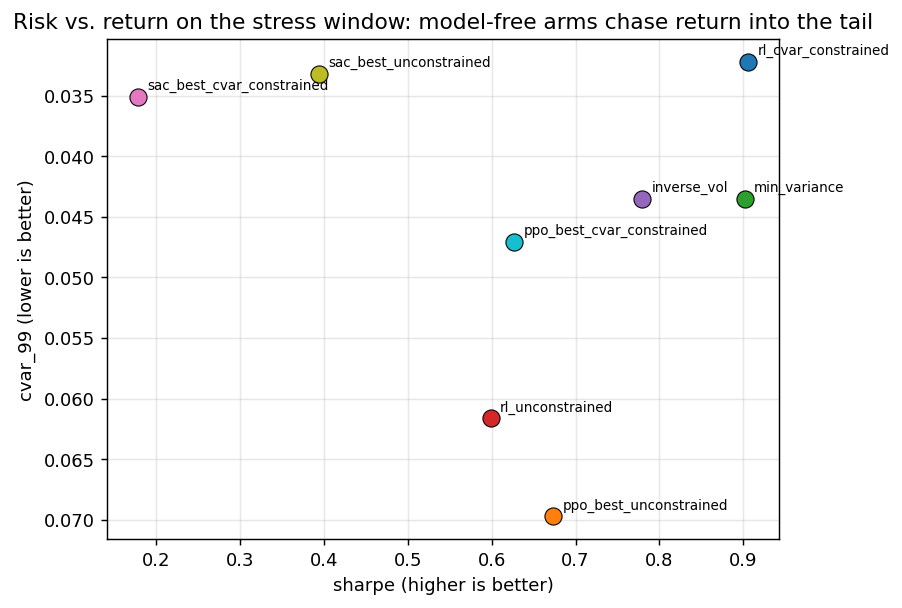
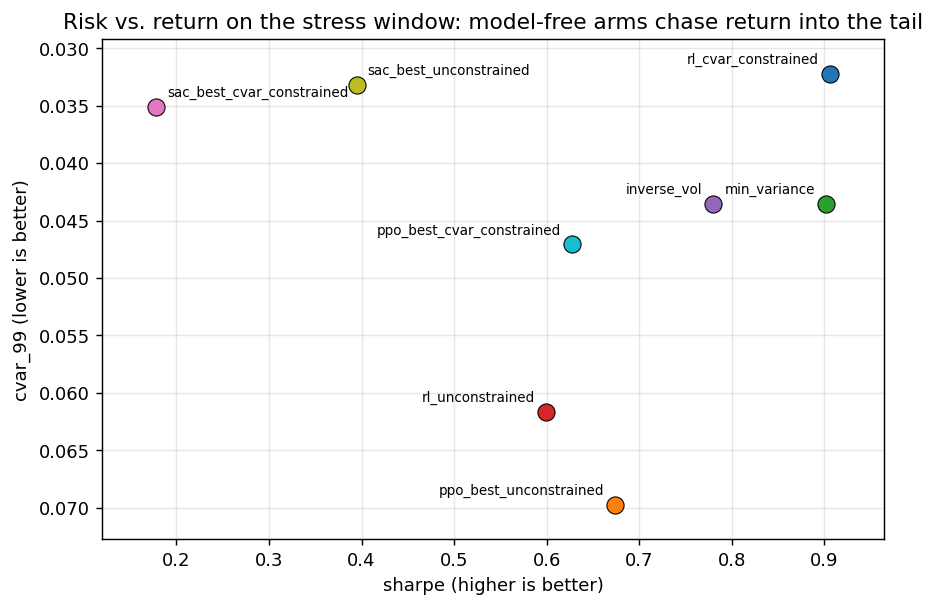
Keep risk-return scatter labels inside the axes
Pad the data limits and flip annotations to the inside for right-half points
so strategy labels (e.g. min_variance, rl_cvar_constrained) no longer run past
the figure border. Regenerate the frontier figure.

diff --git a/src/crlpa/evaluation/plots.py b/src/crlpa/evaluation/plots.py
@@ -109,11 +109,22 @@ def plot_risk_return(df: pd.DataFrame, path, x="sharpe", y="cvar_99",
     the constrained allocator sits in the low-tail corner.
     """
     fig, ax = plt.subplots(figsize=(7, 4.8))
+    xs, ys = df[x].to_numpy(float), df[y].to_numpy(float)
+    # pad the data limits so points (and their labels) sit inside the border
+    xpad = 0.08 * (xs.max() - xs.min() or 1.0)
+    ypad = 0.08 * (ys.max() - ys.min() or 1.0)
+    ax.set_xlim(xs.min() - xpad, xs.max() + xpad)
+    ax.set_ylim(ys.min() - ypad, ys.max() + ypad)
+    xmid = 0.5 * (xs.min() + xs.max())
     for name, row in df.iterrows():
         ax.scatter(row[x], row[y], s=90, color=_COLORS.get(name, "#333333"),
                    edgecolor="black", linewidth=0.6, zorder=3)
-        ax.annotate(str(name), (row[x], row[y]), fontsize=7.5,
-                    xytext=(5, 4), textcoords="offset points")
+        # flip the label to the inside for points on the right half, so the text
+        # never runs off the right border
+        right = row[x] > xmid
+        ax.annotate(str(name), (row[x], row[y]), fontsize=7.5, zorder=4,
+                    xytext=(-6 if right else 6, 4), textcoords="offset points",
+                    ha="right" if right else "left", va="bottom")
     ax.invert_yaxis()  # lower tail risk = better = upward
     ax.set_xlabel(f"{x} (higher is better)")
     ax.set_ylabel(f"{y} (lower is better)")
